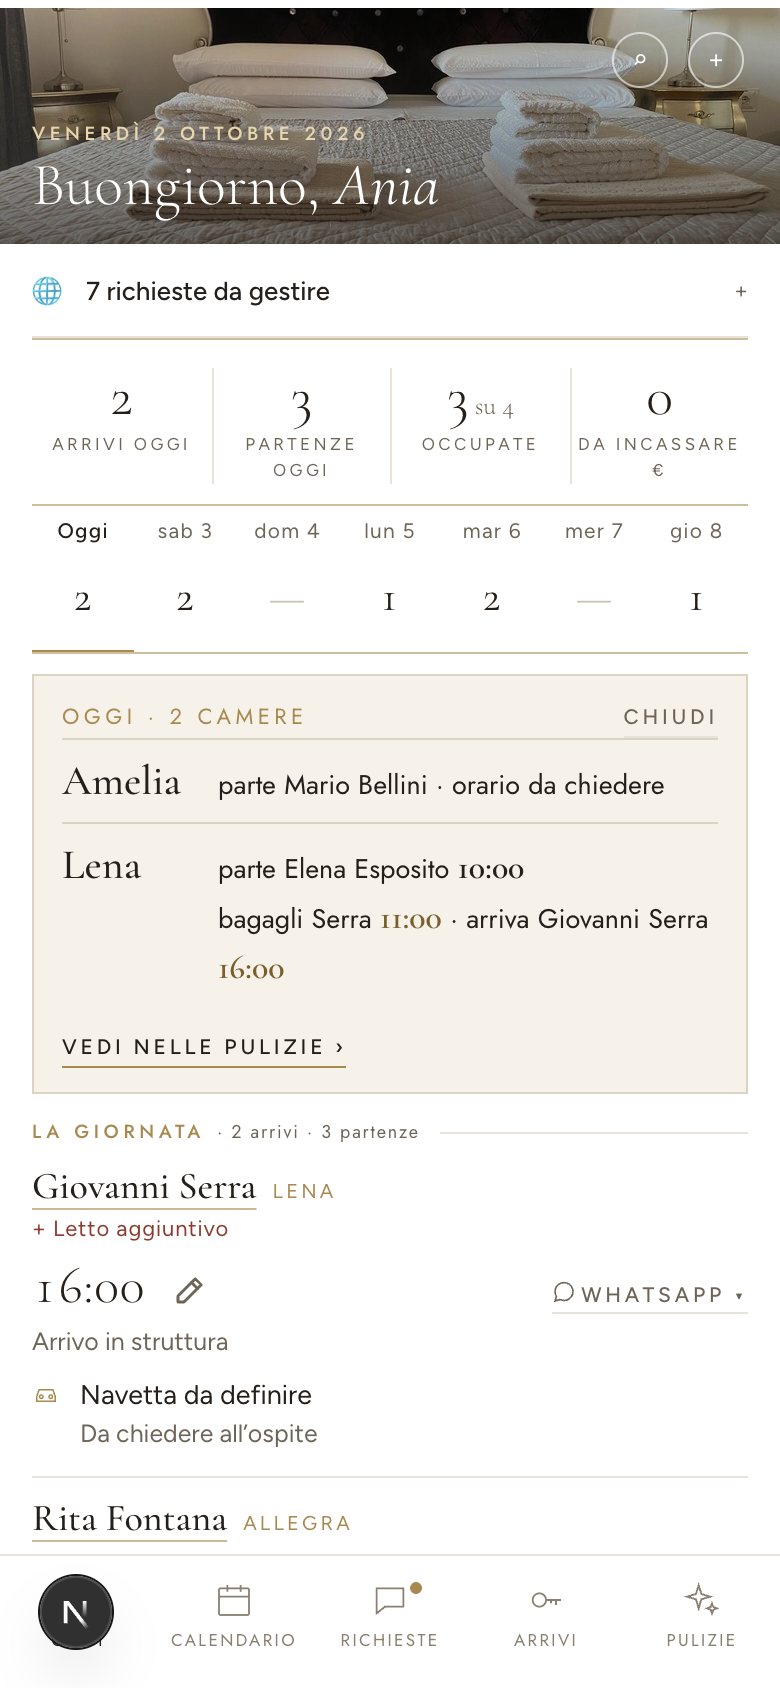
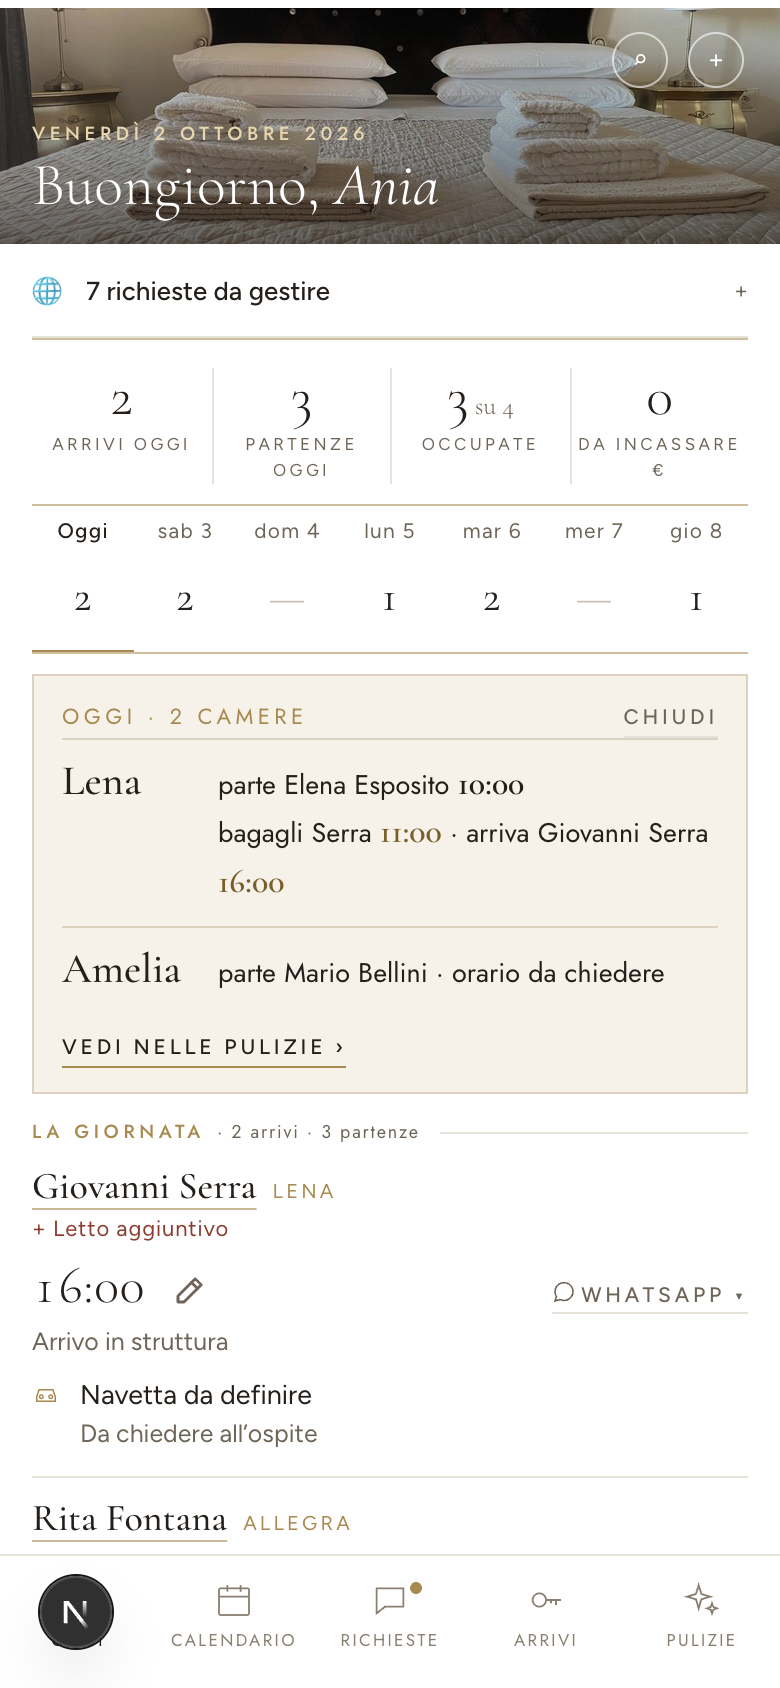
Ordine di urgenza unico: riquadro della striscia in Home e pagina Pulizie (oggi e giorni futuri)
Priorità di prioritaDi (urgente, alta, flessibile, nessuna fretta), a
parità chi arriva prima (giorno, ora; senza ora dopo; senza arrivo in
fondo), poi l'ordine delle camere. Anche oggi, col sì di Ania (02/10/2026).

Changed region(s): [[0.2769, 0.4621, 0.8923, 0.5853], [0.0615, 0.4621, 0.2462, 0.5237], [0.0923, 0.5545, 0.2154, 0.5853]]

diff --git a/app/pulizie/page.tsx b/app/pulizie/page.tsx
@@ -35,12 +35,11 @@ import { type RispostaPulizia } from '@/lib/pulizieOperazioni'
 import { confermateNelGiorno, prossimePulizie, rinviiInCorso } from '@/lib/pulizieVista'
 import {
   confrontaDecisioni, attive, soggiornoContinuativo, pulizieAperte, prossimoArrivo, prioritaDi, cronologiaCamera,
-  pulizieAutomatiche, conteggioGiorno, pulizieDelGiorno, diffDays, todayStr, NOTA_AUTOMATICA_CORRETTA, NOTA_AUTOMATICA_TOLTA, GIORNI_PREAVVISO,
-  type PrenotazionePulizie, type CameraPulizie, type Priorita, type Decisione, type PuliziaAutomatica,
+  pulizieAutomatiche, conteggioGiorno, pulizieDelGiorno, prioritaCamera, confrontaUrgenza, diffDays, todayStr, NOTA_AUTOMATICA_CORRETTA, NOTA_AUTOMATICA_TOLTA, GIORNI_PREAVVISO,
+  type PrenotazionePulizie, type CameraPulizie, type Decisione, type PuliziaAutomatica,
 } from '@/lib/pulizie'
 
 const ROOM_ORDER = ['Amelia', 'Allegra', 'Ambra', 'Lena']
-const RANK: Record<Priorita, number> = { urgente: 0, alta: 1, flessibile: 2, nessuna_fretta: 3 }
 type Vista = 'oggi' | 'registro' | 'resoconto'
 type Riga = Decisione & { assetto?: unknown; minuti?: number | null; aggiornata_at?: string | null }
 type Apertura = { camera: string; pulizia: Decisione; booking: PrenotazionePulizie | null }
@@ -140,9 +139,9 @@ export default function Pulizie() {
   const camereOggi = useMemo(() => rooms.filter(r => r.active !== false).map(room => {
     const aperte = pulizieAperte(prenotazioni, room.id, td, events)
     const arrivo = prossimoArrivo(prenotazioni, room.id, td)
-    const priorita = aperte.length ? aperte.map(p => prioritaDi(p, arrivo)).sort((a, b) => RANK[a] - RANK[b])[0] : null
+    const priorita = prioritaCamera(aperte, arrivo)
     return { room, nome: breve(room.id), aperte, arrivo, priorita, cronologia: cronologiaCamera(prenotazioni, room.id, td, events, rooms) }
-  }).filter(r => r.aperte.length > 0).sort((a, b) => RANK[a.priorita!] - RANK[b.priorita!]), [rooms, prenotazioni, events, td, breve])
+  }).filter(r => r.aperte.length > 0).sort(confrontaUrgenza), [rooms, prenotazioni, events, td, breve])
   const daFare = conteggioGiorno(rooms, prenotazioni, events, td, td).daFare
   // Su un giorno che deve venire: lo stesso numero della striscia della Home
   const daFareNelGiorno = futuro ? conteggioGiorno(rooms, prenotazioni, events, giorno, td).daFare : daFare
@@ -164,9 +163,9 @@ export default function Pulizie() {
   const camereFuture = !futuro ? [] : rooms.filter(r => r.active !== false).map(room => {
     const aperte = pulizieDelGiorno(prenotazioni, room.id, giorno, td, events)
     const arrivo = prossimoArrivo(prenotazioni, room.id, giorno)
-    const priorita = aperte.length ? aperte.map(p => prioritaDi(p, arrivo)).sort((a, b) => RANK[a] - RANK[b])[0] : null
+    const priorita = prioritaCamera(aperte, arrivo)
     return { room, nome: breve(room.id), aperte, arrivo, priorita }
-  }).filter(r => r.aperte.length > 0).sort((a, b) => RANK[a.priorita!] - RANK[b.priorita!])
+  }).filter(r => r.aperte.length > 0).sort(confrontaUrgenza)
   const graficoFuturo = !futuro ? [] : rooms.filter(r => r.active !== false).map(r => rigaGiornata(r, breve(r.id), prenotazioni, events as Parameters<typeof rigaGiornata>[3], giorno, conOrari,
     pulizieDelGiorno(prenotazioni, r.id, giorno, td, events)))
 
@@ -229,7 +228,7 @@ export default function Pulizie() {
       </>}
       {!futuro && <>
       <GraficoGiornata righe={grafico} spazi={spaziOggi} />
-      {/* Le camere da fare, nell'ordine di urgenza (RANK di prioritaDi) */}
+      {/* Le camere da fare, nell'ordine di urgenza (confrontaUrgenza: prioritaDi, poi chi arriva prima) */}
       {camereOggi.flatMap(c => c.aperte.map((p, i) => <SchedaCameraOggi key={`${p.tipo}:${p.booking.id}:${p.due}`} id={i === 0 ? `camera-${c.room.id}` : undefined}
         nome={c.nome} cronologia={i === 0 ? c.cronologia : undefined} chi={p.tipo === 'soggiorno' ? `${nomeOspite(p.booking)} · ${diffDays(td, soggiornoContinuativo(prenotazioni, p.booking).inizio.check_in)}ª notte` : undefined} pulizia={p} arrivo={c.arrivo} priorita={prioritaDi(p, c.arrivo)} oggi={td} conOrari={conOrari}
         ultimaId={ultimaId(c.room.id)} nomeCamera={nomeDaPrenotazione} onVaiA={vaiA} onSalvato={aggiornato} />))}

diff --git a/lib/pulizieDomani.test.ts b/lib/pulizieDomani.test.ts
@@ -126,3 +126,38 @@ test('D1 · la pagina su un giorno futuro: grafico senza linea dell’ora, sched
   assert.match(grafico, /\{adesso && <div className="tl-ora" aria-hidden><Adesso \/><\/div>\}/)
   assert.match(leggi('app/pulizie.css'), /\.pul-prev \{ font-size: 11px; letter-spacing: \.16em; text-transform: uppercase; color: var\(--p-ott2\);/)
 })
+
+// ── Ordine di urgenza (Ania, 02/10/2026): riquadro della Home e pagina Pulizie ──
+import { confrontaUrgenza } from './pulizie.ts'
+import { camereDaPreparare } from './numeriOggi.ts'
+
+test('ordine di urgenza: priorità, poi chi arriva prima (giorno, ora; senza ora dopo), poi l’ordine delle camere', () => {
+  const arr = (check_in: string, check_in_time?: string) => ({ booking: { check_in, check_in_time } as never, giorni: 0, cambioDa: null })
+  const v = [
+    { k: 'nessuna', priorita: 'nessuna_fretta' as const, arrivo: null },
+    { k: 'alta-tardi', priorita: 'alta' as const, arrivo: arr('2026-10-02', '18:00') },
+    { k: 'urg-senza-ora', priorita: 'urgente' as const, arrivo: arr('2026-10-01') },
+    { k: 'urg-14', priorita: 'urgente' as const, arrivo: arr('2026-10-01', '14:00') },
+    { k: 'alta-presto', priorita: 'alta' as const, arrivo: arr('2026-10-02', '9:30') },
+    { k: 'alta-senza-arrivo', priorita: 'alta' as const, arrivo: null },
+    { k: 'flessibile', priorita: 'flessibile' as const, arrivo: arr('2026-10-04') },
+  ]
+  assert.deepEqual([...v].sort(confrontaUrgenza).map(x => x.k), ['urg-14', 'urg-senza-ora', 'alta-presto', 'alta-tardi', 'alta-senza-arrivo', 'flessibile', 'nessuna'])
+})
+
+test('riquadro della striscia: camere nell’ordine di urgenza della pagina Pulizie, non più nell’ordine fisso', () => {
+  const camere = ['amelia', 'allegra', 'ambra', 'lena'].map(id => ({ id, name: id[0].toUpperCase() + id.slice(1) }))
+  const p = [
+    pr('amelia', '2026-09-29', DOMANI, 'Mario Rossi'),                                   // parte domani, nessun arrivo: nessuna fretta
+    pr('ambra', '2026-09-28', '2026-10-06', 'Lucia Ferri'),                              // 4ª notte domani: priorità alta
+    pr('allegra', '2026-09-30', DOMANI, 'Rita Fontana'),
+    pr('allegra', DOMANI, '2026-10-04', 'Bruno Serafini', { check_in_time: '18:00' }),   // cambio ospite, arriva alle 18: urgente
+    pr('lena', '2026-09-30', DOMANI, 'Elena Esposito'),
+    pr('lena', DOMANI, '2026-10-04', 'Giovanni Serra', { check_in_time: '15:00' }),      // cambio ospite, arriva alle 15: urgente, prima
+  ]
+  assert.deepEqual(camereDaPreparare(camere, p as never, [], DOMANI, OGGI).map(c => c.camera), ['Lena', 'Allegra', 'Ambra', 'Amelia'])
+  // la pagina Pulizie usa la stessa regola, oggi e nei giorni futuri
+  const pagina = leggi('app/pulizie/page.tsx')
+  assert.equal((pagina.match(/\.sort\(confrontaUrgenza\)/g) ?? []).length, 2)
+  assert.ok(!/RANK\[/.test(pagina))
+})

diff --git a/lib/numeriOggi.ts b/lib/numeriOggi.ts
@@ -52,7 +52,7 @@ export const testoOccupate = (n: NumeriOggi) => `${n.camereOccupate} su ${n.came
 // Ogni giorno: STESSA regola e stessa fonte della pagina Pulizie
 // (lib/pulizie.conteggioGiorno): quante camere hanno pulizie ancora da fare
 // (il numero) e quante le hanno tutte fatte («✓»); niente = «—».
-import { conteggioGiorno, motivoCameraGiorno, attive, type Decisione, type MotivoCamera } from './pulizie.ts'
+import { conteggioGiorno, motivoCameraGiorno, attive, pulizieDelGiorno, prossimoArrivo, prioritaCamera, confrontaUrgenza, type Decisione, type MotivoCamera } from './pulizie.ts'
 import { nomeOspite } from './guestName.ts'
 import { oraBreve } from './schema0064.ts'
 import { cognome, giornoLungo } from './giornataPulizie.ts'
@@ -74,7 +74,8 @@ export type GiornoStriscia = { giorno: string; daFare: number; fatte: number; og
 // biancheria della 4ª notte»; il cambio camera «Fam. Russo passa in Ambra ⇄».
 // Gli orari sono gli stessi della pagina Pulizie (check_out_time,
 // bagagli_alle, check_in_time). Le camere sono esattamente quelle contate nel
-// numero della casella (stessa regola: lib/pulizie.motivoCameraGiorno).
+// numero della casella (stessa regola: lib/pulizie.motivoCameraGiorno), nello
+// stesso ordine di urgenza della pagina Pulizie (confrontaUrgenza, 02/10/2026).
 export type CameraDaPreparare = {
   roomId: string
   camera: string
@@ -106,7 +107,7 @@ const breve = (nome: string | null | undefined) => String(nome ?? '').split(' ')
 
 export function camereDaPreparare(rooms: CameraNome[], prenotazioni: Parameters<typeof conteggioGiorno>[1], events: Decisione[], giorno: string, oggi: string): CameraDaPreparare[] {
   const valide = attive(prenotazioni)
-  const out: CameraDaPreparare[] = []
+  const out: (CameraDaPreparare & { urgenza: Parameters<typeof confrontaUrgenza>[0] })[] = []
   for (const r of rooms) {
     const m = motivoCameraGiorno(prenotazioni, r.id, giorno, oggi, events)
     if (!m) continue
@@ -122,9 +123,10 @@ export function camereDaPreparare(rooms: CameraNome[], prenotazioni: Parameters<
       if (bag) voce.bagagli = { cognome: cognome(arriva), ora: bag }
       voce.arriva = { nome: nomeOspite(arriva), ora: oraBreve(arriva.check_in_time) }
     }
-    out.push(voce)
+    const arrivo = prossimoArrivo(valide, r.id, giorno)
+    out.push({ ...voce, urgenza: { priorita: prioritaCamera(pulizieDelGiorno(valide, r.id, giorno, oggi, events), arrivo), arrivo } })
   }
-  return out
+  return out.sort((a, b) => confrontaUrgenza(a.urgenza, b.urgenza)).map(v => { const voce: CameraDaPreparare & { urgenza?: unknown } = { ...v }; delete voce.urgenza; return voce })
 }
 
 // Cambi camera per giorno (incarico del 06/09/2026): un ospite che quel giorno

diff --git a/lib/pulizie.ts b/lib/pulizie.ts
@@ -18,6 +18,8 @@
 //   SALTA            → quella pulizia si chiude; la successiva è proposta
 //                      a prevista + 4, modificabile prima della conferma
 
+import { minutiDa } from './schema0064.ts'
+
 export type PrenotazionePulizie = {
   id: string; room_id: string; check_in: string; check_out: string; status?: string
   guest_id?: string | null; guest_name?: string | null; num_guests?: number | string | null
@@ -303,6 +305,24 @@ export function prioritaDi(pulizia: Pulizia, arrivo: ProssimoArrivo | null): Pri
   if (arrivo && arrivo.giorni === 1) return 'alta'
   if (arrivo && arrivo.giorni <= 3) return 'flessibile'
   return 'nessuna_fretta'
+}
+
+// Ordine di urgenza delle camere (pagina Pulizie, oggi e giorni futuri, e
+// riquadro della striscia in Home; Ania, 02/10/2026): prima la priorità di
+// prioritaDi (urgente, priorità alta, flessibile, nessuna fretta), a parità
+// chi arriva prima (giorno, poi ora d'arrivo; senza ora dopo chi l'ha, senza
+// arrivo in fondo); a parità ancora, l'ordine di sempre delle camere.
+export const RANK_PRIORITA: Record<Priorita, number> = { urgente: 0, alta: 1, flessibile: 2, nessuna_fretta: 3 }
+export function prioritaCamera(pulizie: Pulizia[], arrivo: ProssimoArrivo | null): Priorita | null {
+  return pulizie.length ? pulizie.map(p => prioritaDi(p, arrivo)).sort((a, b) => RANK_PRIORITA[a] - RANK_PRIORITA[b])[0] : null
+}
+export function confrontaUrgenza(a: { priorita: Priorita | null; arrivo: ProssimoArrivo | null }, b: { priorita: Priorita | null; arrivo: ProssimoArrivo | null }): number {
+  const r = RANK_PRIORITA[a.priorita ?? 'nessuna_fretta'] - RANK_PRIORITA[b.priorita ?? 'nessuna_fretta']
+  if (r) return r
+  if (!a.arrivo || !b.arrivo) return (a.arrivo ? 0 : 1) - (b.arrivo ? 0 : 1)
+  const g = a.arrivo.booking.check_in.localeCompare(b.arrivo.booking.check_in)
+  if (g) return g
+  return (minutiDa(a.arrivo.booking.check_in_time) ?? 24 * 60) - (minutiDa(b.arrivo.booking.check_in_time) ?? 24 * 60)
 }
 
 // ------------------------------------------------- cambio ospite automatico
